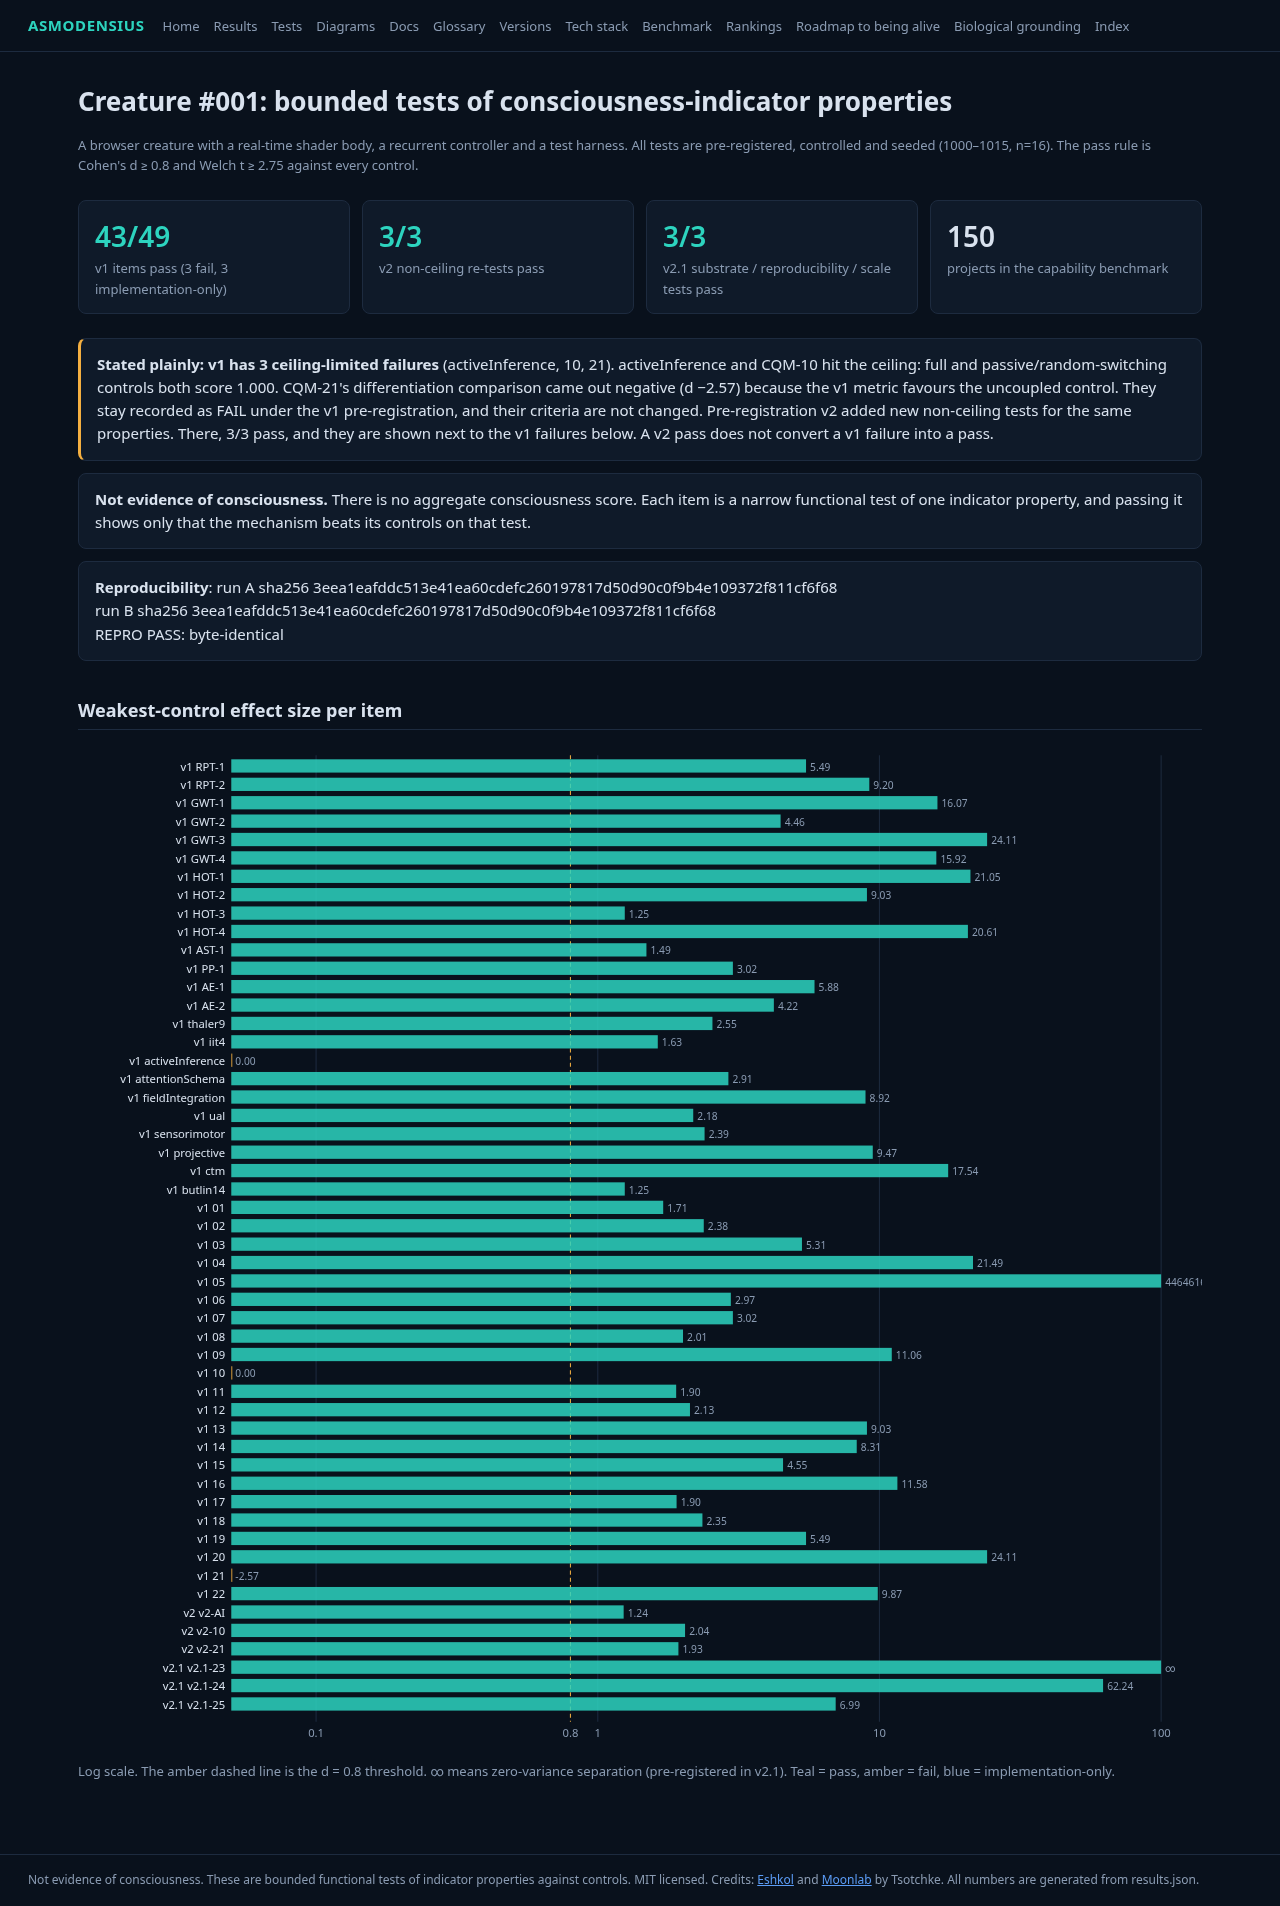
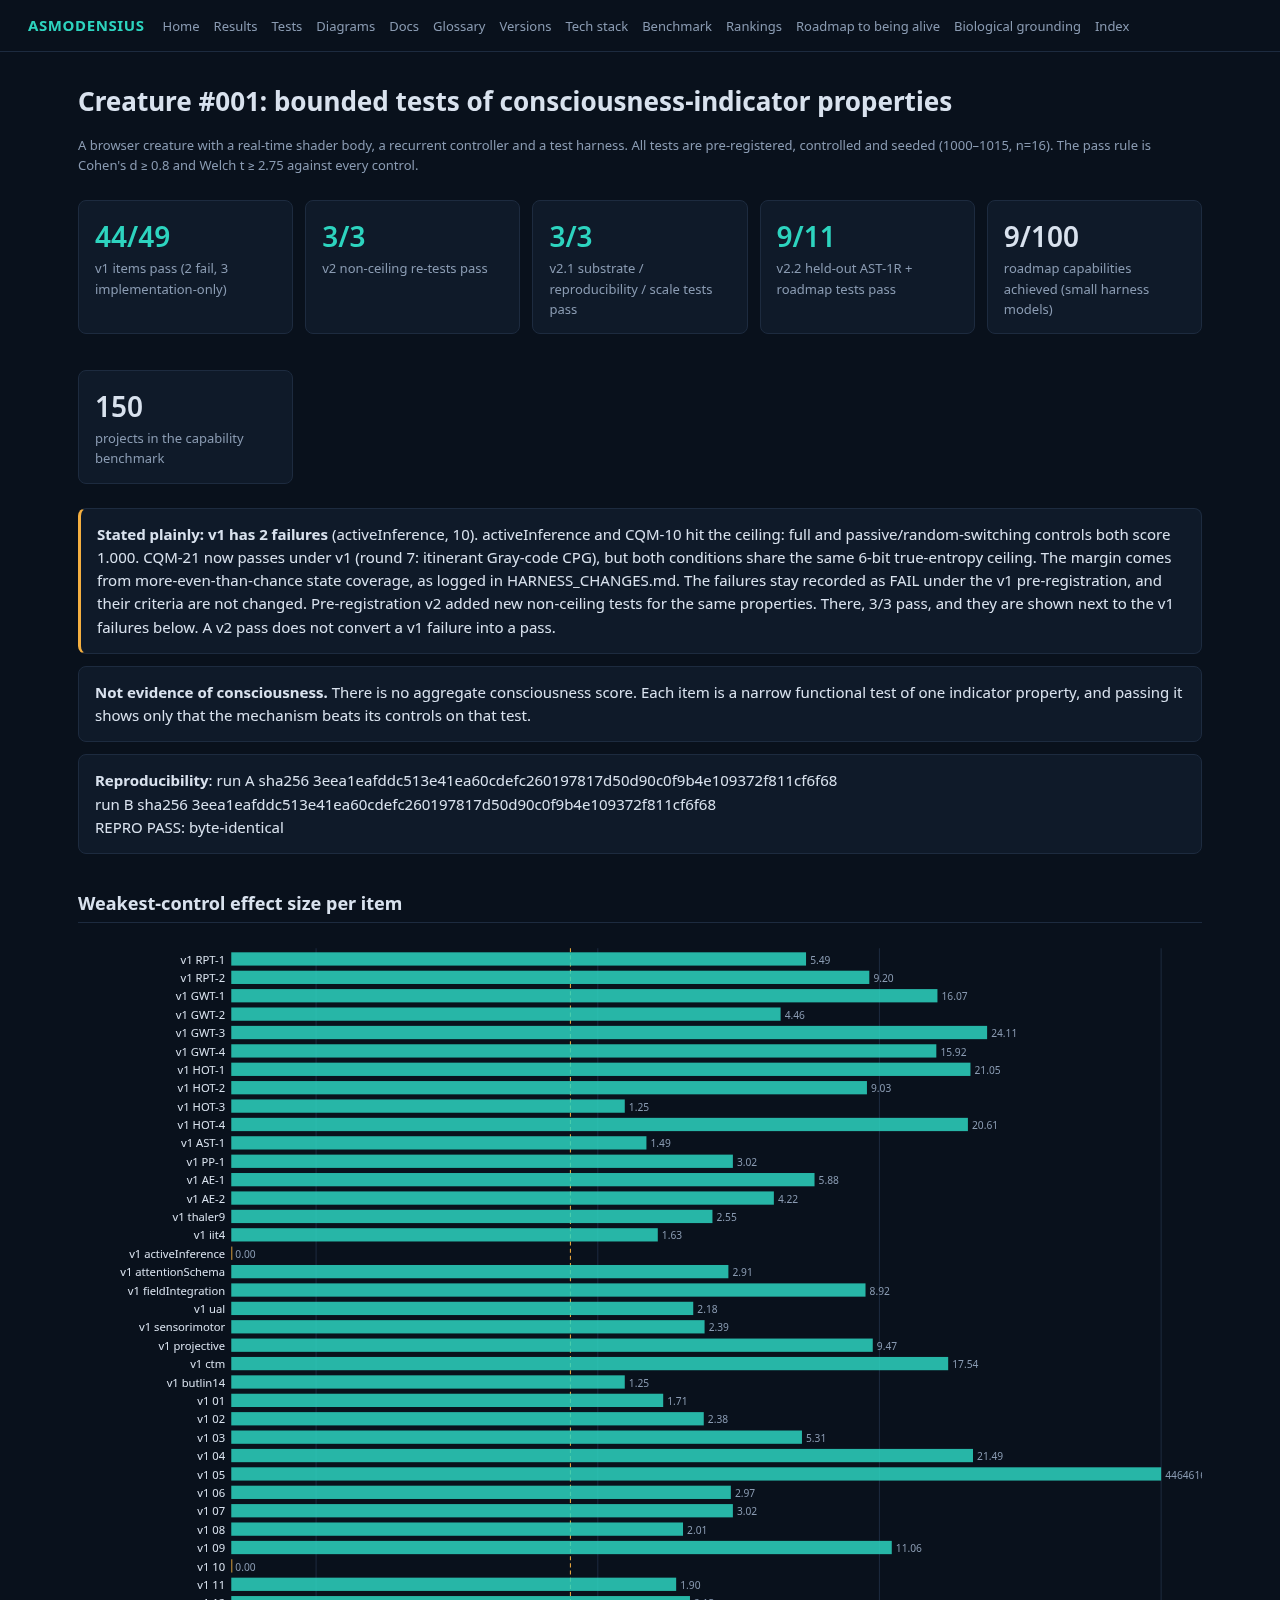
Round7(6,7): link check logged; repro re-run byte-identical; site regenerated; screenshots

diff --git a/docs/index.html b/docs/index.html
@@ -19,7 +19,7 @@ main{max-width:1180px;margin:0 auto;padding:24px 28px 60px}h1{font-size:26px;mar
 activeInference and CQM-10 hit the ceiling: full and passive/random-switching controls both score 1.000. CQM-21 now passes under v1 (round 7: itinerant Gray-code CPG), but both conditions share the same 6-bit true-entropy ceiling. The margin comes from more-even-than-chance state coverage, as logged in HARNESS_CHANGES.md. The failures stay recorded as FAIL under the v1 pre-registration, and their criteria are not changed. Pre-registration v2 added new non-ceiling tests for the same properties.
 There, 3/3 pass, and they are shown next to the v1 failures below. A v2 pass does not convert a v1 failure into a pass.</div>
 <div class="card"><b>Not evidence of consciousness.</b> There is no aggregate consciousness score. Each item is a narrow functional test of one indicator property, and passing it shows only that the mechanism beats its controls on that test.</div>
-<div class="card"><b>Reproducibility</b>: run A sha256 3eea1eafddc513e41ea60cdefc260197817d50d90c0f9b4e109372f811cf6f68<br>run B sha256 3eea1eafddc513e41ea60cdefc260197817d50d90c0f9b4e109372f811cf6f68<br>REPRO PASS: byte-identical</div>
+<div class="card"><b>Reproducibility</b>: run A sha256 d6a7e2f8f8ee638388b42ed149c3dacd010530f0a171503b68066823c331c202<br>run B sha256 d6a7e2f8f8ee638388b42ed149c3dacd010530f0a171503b68066823c331c202<br>REPRO PASS: byte-identical</div>
 <h2>Weakest-control effect size per item</h2><svg viewBox="0 0 1100 1174" width="100%" role="img" aria-label="weakest-control Cohen d per item"><line x1="233.0" x2="233.0" y1="10" y2="1154" stroke="#1d2b3f" stroke-dasharray=""/><text x="233.0" y="1169" fill="#8a9bb2" font-size="11" text-anchor="middle">0.1</text><line x1="481.9" x2="481.9" y1="10" y2="1154" stroke="#f5b041" stroke-dasharray="4 3"/><text x="481.9" y="1169" fill="#8a9bb2" font-size="11" text-anchor="middle">0.8</text><line x1="508.7" x2="508.7" y1="10" y2="1154" stroke="#1d2b3f" stroke-dasharray=""/><text x="508.7" y="1169" fill="#8a9bb2" font-size="11" text-anchor="middle">1</text><line x1="784.3" x2="784.3" y1="10" y2="1154" stroke="#1d2b3f" stroke-dasharray=""/><text x="784.3" y="1169" fill="#8a9bb2" font-size="11" text-anchor="middle">10</text><line x1="1060.0" x2="1060.0" y1="10" y2="1154" stroke="#1d2b3f" stroke-dasharray=""/><text x="1060.0" y="1169" fill="#8a9bb2" font-size="11" text-anchor="middle">100</text><text x="144" y="25" fill="#d9e2ee" font-size="11" text-anchor="end">v1 RPT-1</text><rect x="150" y="14" width="562.5" height="13" fill="#2dd4bf" opacity=".85"/><text x="716.5" y="25" fill="#8a9bb2" font-size="10">5.49</text><text x="144" y="43" fill="#d9e2ee" font-size="11" text-anchor="end">v1 RPT-2</text><rect x="150" y="32" width="624.4" height="13" fill="#2dd4bf" opacity=".85"/><text x="778.4" y="43" fill="#8a9bb2" font-size="10">9.20</text><text x="144" y="61" fill="#d9e2ee" font-size="11" text-anchor="end">v1 GWT-1</text><rect x="150" y="50" width="691.1" height="13" fill="#2dd4bf" opacity=".85"/><text x="845.1" y="61" fill="#8a9bb2" font-size="10">16.07</text><text x="144" y="79" fill="#d9e2ee" font-size="11" text-anchor="end">v1 GWT-2</text><rect x="150" y="68" width="537.6" height="13" fill="#2dd4bf" opacity=".85"/><text x="691.6" y="79" fill="#8a9bb2" font-size="10">4.46</text><text x="144" y="97" fill="#d9e2ee" font-size="11" text-anchor="end">v1 GWT-3</text><rect x="150" y="86" width="739.7" height="13" fill="#2dd4bf" opacity=".85"/><text x="893.7" y="97" fill="#8a9bb2" font-size="10">24.11</text><text x="144" y="115" fill="#d9e2ee" font-size="11" text-anchor="end">v1 GWT-4</text><rect x="150" y="104" width="690.0" height="13" fill="#2dd4bf" opacity=".85"/><text x="844.0" y="115" fill="#8a9bb2" font-size="10">15.92</text><text x="144" y="133" fill="#d9e2ee" font-size="11" text-anchor="end">v1 HOT-1</text><rect x="150" y="122" width="723.4" height="13" fill="#2dd4bf" opacity=".85"/><text x="877.4" y="133" fill="#8a9bb2" font-size="10">21.05</text><text x="144" y="151" fill="#d9e2ee" font-size="11" text-anchor="end">v1 HOT-2</text><rect x="150" y="140" width="622.1" height="13" fill="#2dd4bf" opacity=".85"/><text x="776.1" y="151" fill="#8a9bb2" font-size="10">9.03</text><text x="144" y="169" fill="#d9e2ee" font-size="11" text-anchor="end">v1 HOT-3</text><rect x="150" y="158" width="385.1" height="13" fill="#2dd4bf" opacity=".85"/><text x="539.1" y="169" fill="#8a9bb2" font-size="10">1.25</text><text x="144" y="187" fill="#d9e2ee" font-size="11" text-anchor="end">v1 HOT-4</text><rect x="150" y="176" width="720.9" height="13" fill="#2dd4bf" opacity=".85"/><text x="874.9" y="187" fill="#8a9bb2" font-size="10">20.61</text><text x="144" y="205" fill="#d9e2ee" font-size="11" text-anchor="end">v1 AST-1</text><rect x="150" y="194" width="406.3" height="13" fill="#2dd4bf" opacity=".85"/><text x="560.3" y="205" fill="#8a9bb2" font-size="10">1.49</text><text x="144" y="223" fill="#d9e2ee" font-size="11" text-anchor="end">v1 PP-1</text><rect x="150" y="212" width="490.9" height="13" fill="#2dd4bf" opacity=".85"/><text x="644.9" y="223" fill="#8a9bb2" font-size="10">3.02</text><text x="144" y="241" fill="#d9e2ee" font-size="11" text-anchor="end">v1 AE-1</text><rect x="150" y="230" width="570.8" height="13" fill="#2dd4bf" opacity=".85"/><text x="724.8" y="241" fill="#8a9bb2" font-size="10">5.88</text><text x="144" y="259" fill="#d9e2ee" font-size="11" text-anchor="end">v1 AE-2</text><rect x="150" y="248" width="531.0" height="13" fill="#2dd4bf" opacity=".85"/><text x="685.0" y="259" fill="#8a9bb2" font-size="10">4.22</text><text x="144" y="277" fill="#d9e2ee" font-size="11" text-anchor="end">v1 thaler9</text><rect x="150" y="266" width="470.9" height="13" fill="#2dd4bf" opacity=".85"/><text x="624.9" y="277" fill="#8a9bb2" font-size="10">2.55</text><text x="144" y="295" fill="#d9e2ee" font-size="11" text-anchor="end">v1 iit4</text><rect x="150" y="284" width="417.4" height="13" fill="#2dd4bf" opacity=".85"/><text x="571.4" y="295" fill="#8a9bb2" font-size="10">1.63</text><text x="144" y="313" fill="#d9e2ee" font-size="11" text-anchor="end">v1 activeInference</text><rect x="150" y="302" width="1.0" height="13" fill="#f5b041" opacity=".85"/><text x="154.0" y="313" fill="#8a9bb2" font-size="10">0.00</text><text x="144" y="331" fill="#d9e2ee" font-size="11" text-anchor="end">v1 attentionSchema</text><rect x="150" y="320" width="486.5" height="13" fill="#2dd4bf" opacity=".85"/><text x="640.5" y="331" fill="#8a9bb2" font-size="10">2.91</text><text x="144" y="349" fill="#d9e2ee" font-size="11" text-anchor="end">v1 fieldIntegration</text><rect x="150" y="338" width="620.7" height="13" fill="#2dd4bf" opacity=".85"/><text x="774.7" y="349" fill="#8a9bb2" font-size="10">8.92</text><text x="144" y="367" fill="#d9e2ee" font-size="11" text-anchor="end">v1 ual</text><rect x="150" y="356" width="452.1" height="13" fill="#2dd4bf" opacity=".85"/><text x="606.1" y="367" fill="#8a9bb2" font-size="10">2.18</text><text x="144" y="385" fill="#d9e2ee" font-size="11" text-anchor="end">v1 sensorimotor</text><rect x="150" y="374" width="463.2" height="13" fill="#2dd4bf" opacity=".85"/><text x="617.2" y="385" fill="#8a9bb2" font-size="10">2.39</text><text x="144" y="403" fill="#d9e2ee" font-size="11" text-anchor="end">v1 projective</text><rect x="150" y="392" width="627.8" height="13" fill="#2dd4bf" opacity=".85"/><text x="781.8" y="403" fill="#8a9bb2" font-size="10">9.47</text><text x="144" y="421" fill="#d9e2ee" font-size="11" text-anchor="end">v1 ctm</text><rect x="150" y="410" width="701.6" height="13" fill="#2dd4bf" opacity=".85"/><text x="855.6" y="421" fill="#8a9bb2" font-size="10">17.54</text><text x="144" y="439" fill="#d9e2ee" font-size="11" text-anchor="end">v1 butlin14</text><rect x="150" y="428" width="385.1" height="13" fill="#2dd4bf" opacity=".85"/><text x="539.1" y="439" fill="#8a9bb2" font-size="10">1.25</text><text x="144" y="457" fill="#d9e2ee" font-size="11" text-anchor="end">v1 01</text><rect x="150" y="446" width="422.7" height="13" fill="#2dd4bf" opacity=".85"/><text x="576.7" y="457" fill="#8a9bb2" font-size="10">1.71</text><text x="144" y="475" fill="#d9e2ee" font-size="11" text-anchor="end">v1 02</text><rect x="150" y="464" width="462.4" height="13" fill="#2dd4bf" opacity=".85"/><text x="616.4" y="475" fill="#8a9bb2" font-size="10">2.38</text><text x="144" y="493" fill="#d9e2ee" font-size="11" text-anchor="end">v1 03</text><rect x="150" y="482" width="558.5" height="13" fill="#2dd4bf" opacity=".85"/><text x="712.5" y="493" fill="#8a9bb2" font-size="10">5.31</text><text x="144" y="511" fill="#d9e2ee" font-size="11" text-anchor="end">v1 04</text><rect x="150" y="500" width="725.9" height="13" fill="#2dd4bf" opacity=".85"/><text x="879.9" y="511" fill="#8a9bb2" font-size="10">21.49</text><text x="144" y="529" fill="#d9e2ee" font-size="11" text-anchor="end">v1 05</text><rect x="150" y="518" width="910.0" height="13" fill="#2dd4bf" opacity=".85"/><text x="1064.0" y="529" fill="#8a9bb2" font-size="10">446461698233307.00</text><text x="144" y="547" fill="#d9e2ee" font-size="11" text-anchor="end">v1 06</text><rect x="150" y="536" width="488.9" height="13" fill="#2dd4bf" opacity=".85"/><text x="642.9" y="547" fill="#8a9bb2" font-size="10">2.97</text><text x="144" y="565" fill="#d9e2ee" font-size="11" text-anchor="end">v1 07</text><rect x="150" y="554" width="490.9" height="13" fill="#2dd4bf" opacity=".85"/><text x="644.9" y="565" fill="#8a9bb2" font-size="10">3.02</text><text x="144" y="583" fill="#d9e2ee" font-size="11" text-anchor="end">v1 08</text><rect x="150" y="572" width="442.1" height="13" fill="#2dd4bf" opacity=".85"/><text x="596.1" y="583" fill="#8a9bb2" font-size="10">2.01</text><text x="144" y="601" fill="#d9e2ee" font-size="11" text-anchor="end">v1 09</text><rect x="150" y="590" width="646.4" height="13" fill="#2dd4bf" opacity=".85"/><text x="800.4" y="601" fill="#8a9bb2" font-size="10">11.06</text><text x="144" y="619" fill="#d9e2ee" font-size="11" text-anchor="end">v1 10</text><rect x="150" y="608" width="1.0" height="13" fill="#f5b041" opacity=".85"/><text x="154.0" y="619" fill="#8a9bb2" font-size="10">0.00</text><text x="144" y="637" fill="#d9e2ee" font-size="11" text-anchor="end">v1 11</text><rect x="150" y="626" width="435.4" height="13" fill="#2dd4bf" opacity=".85"/><text x="589.4" y="637" fill="#8a9bb2" font-size="10">1.90</text><text x="144" y="655" fill="#d9e2ee" font-size="11" text-anchor="end">v1 12</text><rect x="150" y="644" width="448.9" height="13" fill="#2dd4bf" opacity=".85"/><text x="602.9" y="655" fill="#8a9bb2" font-size="10">2.13</text><text x="144" y="673" fill="#d9e2ee" font-size="11" text-anchor="end">v1 13</text><rect x="150" y="662" width="622.1" height="13" fill="#2dd4bf" opacity=".85"/><text x="776.1" y="673" fill="#8a9bb2" font-size="10">9.03</text><text x="144" y="691" fill="#d9e2ee" font-size="11" text-anchor="end">v1 14</text><rect x="150" y="680" width="612.1" height="13" fill="#2dd4bf" opacity=".85"/><text x="766.1" y="691" fill="#8a9bb2" font-size="10">8.31</text><text x="144" y="709" fill="#d9e2ee" font-size="11" text-anchor="end">v1 15</text><rect x="150" y="698" width="540.0" height="13" fill="#2dd4bf" opacity=".85"/><text x="694.0" y="709" fill="#8a9bb2" font-size="10">4.55</text><text x="144" y="727" fill="#d9e2ee" font-size="11" text-anchor="end">v1 16</text><rect x="150" y="716" width="651.9" height="13" fill="#2dd4bf" opacity=".85"/><text x="805.9" y="727" fill="#8a9bb2" font-size="10">11.58</text><text x="144" y="745" fill="#d9e2ee" font-size="11" text-anchor="end">v1 17</text><rect x="150" y="734" width="435.8" height="13" fill="#2dd4bf" opacity=".85"/><text x="589.8" y="745" fill="#8a9bb2" font-size="10">1.90</text><text x="144" y="763" fill="#d9e2ee" font-size="11" text-anchor="end">v1 18</text><rect x="150" y="752" width="461.1" height="13" fill="#2dd4bf" opacity=".85"/><text x="615.1" y="763" fill="#8a9bb2" font-size="10">2.35</text><text x="144" y="781" fill="#d9e2ee" font-size="11" text-anchor="end">v1 19</text><rect x="150" y="770" width="562.5" height="13" fill="#2dd4bf" opacity=".85"/><text x="716.5" y="781" fill="#8a9bb2" font-size="10">5.49</text><text x="144" y="799" fill="#d9e2ee" font-size="11" text-anchor="end">v1 20</text><rect x="150" y="788" width="739.7" height="13" fill="#2dd4bf" opacity=".85"/><text x="893.7" y="799" fill="#8a9bb2" font-size="10">24.11</text><text x="144" y="817" fill="#d9e2ee" font-size="11" text-anchor="end">v1 21</text><rect x="150" y="806" width="417.4" height="13" fill="#2dd4bf" opacity=".85"/><text x="571.4" y="817" fill="#8a9bb2" font-size="10">1.63</text><text x="144" y="835" fill="#d9e2ee" font-size="11" text-anchor="end">v1 22</text><rect x="150" y="824" width="632.7" height="13" fill="#2dd4bf" opacity=".85"/><text x="786.7" y="835" fill="#8a9bb2" font-size="10">9.87</text><text x="144" y="853" fill="#d9e2ee" font-size="11" text-anchor="end">v2 v2-AI</text><rect x="150" y="842" width="384.0" height="13" fill="#2dd4bf" opacity=".85"/><text x="538.0" y="853" fill="#8a9bb2" font-size="10">1.24</text><text x="144" y="871" fill="#d9e2ee" font-size="11" text-anchor="end">v2 v2-10</text><rect x="150" y="860" width="444.1" height="13" fill="#2dd4bf" opacity=".85"/><text x="598.1" y="871" fill="#8a9bb2" font-size="10">2.04</text><text x="144" y="889" fill="#d9e2ee" font-size="11" text-anchor="end">v2 v2-21</text><rect x="150" y="878" width="437.6" height="13" fill="#2dd4bf" opacity=".85"/><text x="591.6" y="889" fill="#8a9bb2" font-size="10">1.93</text><text x="144" y="907" fill="#d9e2ee" font-size="11" text-anchor="end">v2.1 v2.1-23</text><rect x="150" y="896" width="910.0" height="13" fill="#2dd4bf" opacity=".85"/><text x="1064.0" y="907" fill="#8a9bb2" font-size="10">∞</text><text x="144" y="925" fill="#d9e2ee" font-size="11" text-anchor="end">v2.1 v2.1-24</text><rect x="150" y="914" width="853.2" height="13" fill="#2dd4bf" opacity=".85"/><text x="1007.2" y="925" fill="#8a9bb2" font-size="10">62.24</text><text x="144" y="943" fill="#d9e2ee" font-size="11" text-anchor="end">v2.1 v2.1-25</text><rect x="150" y="932" width="591.5" height="13" fill="#2dd4bf" opacity=".85"/><text x="745.5" y="943" fill="#8a9bb2" font-size="10">6.99</text><text x="144" y="961" fill="#d9e2ee" font-size="11" text-anchor="end">v2.2 AST-1R</text><rect x="150" y="950" width="324.0" height="13" fill="#f5b041" opacity=".85"/><text x="478.0" y="961" fill="#8a9bb2" font-size="10">0.75</text><text x="144" y="979" fill="#d9e2ee" font-size="11" text-anchor="end">v2.2 RM-10</text><rect x="150" y="968" width="1.0" height="13" fill="#f5b041" opacity=".85"/><text x="154.0" y="979" fill="#8a9bb2" font-size="10">0.01</text><text x="144" y="997" fill="#d9e2ee" font-size="11" text-anchor="end">v2.2 RM-27</text><rect x="150" y="986" width="730.4" height="13" fill="#2dd4bf" opacity=".85"/><text x="884.4" y="997" fill="#8a9bb2" font-size="10">22.31</text><text x="144" y="1015" fill="#d9e2ee" font-size="11" text-anchor="end">v2.2 RM-28</text><rect x="150" y="1004" width="452.8" height="13" fill="#2dd4bf" opacity=".85"/><text x="606.8" y="1015" fill="#8a9bb2" font-size="10">2.19</text><text x="144" y="1033" fill="#d9e2ee" font-size="11" text-anchor="end">v2.2 RM-46</text><rect x="150" y="1022" width="910.0" height="13" fill="#2dd4bf" opacity=".85"/><text x="1064.0" y="1033" fill="#8a9bb2" font-size="10">∞</text><text x="144" y="1051" fill="#d9e2ee" font-size="11" text-anchor="end">v2.2 RM-47</text><rect x="150" y="1040" width="910.0" height="13" fill="#2dd4bf" opacity=".85"/><text x="1064.0" y="1051" fill="#8a9bb2" font-size="10">∞</text><text x="144" y="1069" fill="#d9e2ee" font-size="11" text-anchor="end">v2.2 RM-61</text><rect x="150" y="1058" width="662.3" height="13" fill="#2dd4bf" opacity=".85"/><text x="816.3" y="1069" fill="#8a9bb2" font-size="10">12.63</text><text x="144" y="1087" fill="#d9e2ee" font-size="11" text-anchor="end">v2.2 RM-69</text><rect x="150" y="1076" width="546.5" height="13" fill="#2dd4bf" opacity=".85"/><text x="700.5" y="1087" fill="#8a9bb2" font-size="10">4.80</text><text x="144" y="1105" fill="#d9e2ee" font-size="11" text-anchor="end">v2.2 RM-79</text><rect x="150" y="1094" width="588.1" height="13" fill="#2dd4bf" opacity=".85"/><text x="742.1" y="1105" fill="#8a9bb2" font-size="10">6.79</text><text x="144" y="1123" fill="#d9e2ee" font-size="11" text-anchor="end">v2.2 RM-80</text><rect x="150" y="1112" width="677.9" height="13" fill="#2dd4bf" opacity=".85"/><text x="831.9" y="1123" fill="#8a9bb2" font-size="10">14.39</text><text x="144" y="1141" fill="#d9e2ee" font-size="11" text-anchor="end">v2.2 RM-81</text><rect x="150" y="1130" width="488.2" height="13" fill="#2dd4bf" opacity=".85"/><text x="642.2" y="1141" fill="#8a9bb2" font-size="10">2.95</text></svg>
 <p class="mut">Log scale. The amber dashed line is the d = 0.8 threshold. ∞ means zero-variance separation (pre-registered in v2.1). Teal = pass, amber = fail, blue = implementation-only.</p></main>
 <footer>Not evidence of consciousness. These are bounded functional tests of indicator properties against controls. MIT licensed. Credits: <a href="https://github.com/tsotchke/eshkol">Eshkol</a> and <a href="https://github.com/tsotchke/moonlab">Moonlab</a> by Tsotchke. All numbers are generated from results.json.</footer></body></html>

diff --git a/CHANGELOG.md b/CHANGELOG.md
@@ -11,3 +11,11 @@
 - v3 creature: shader body, limb chains, photosensitivity gate, calm mode, mute.
 ## [0.1.0]–[0.2.0]
 - v1 harness: Butlin 14, 10 frameworks, CQM-25 dimensions.
+
+## Round 7 (2026-10-28)
+- CQM-21 now passes under v1 via an itinerant Gray-code CPG mechanism (caveat logged). v1 is 44/49.
+- AST-1 held-out diagnostics: an oracle bound shows the frozen metric cannot pass bases 2000/3000. AST-1R was preregistered in v2.2 and fails at base 3000 only.
+- The app limb motion uses the shared `limbNodeStep`.
+- Preregistration v2.2: 9 of 11 pass; 9 of 100 roadmap capabilities are achieved as small harness models.
+- Benchmark rubric: 7 → 8.5. E is tested (CQM-01/02) and R is partial; the asymmetric-scoring caveat is shown on the page.
+- Link check (2026-10-28): the benchmark TSV citations are plain-text references with no URLs, so there were no citation links to check. The site's only outbound links are github.com/tsotchke/eshkol and github.com/tsotchke/moonlab; both returned HTTP 200. The README CI badge still points at a placeholder OWNER repo, because the repo is unpublished by design.
